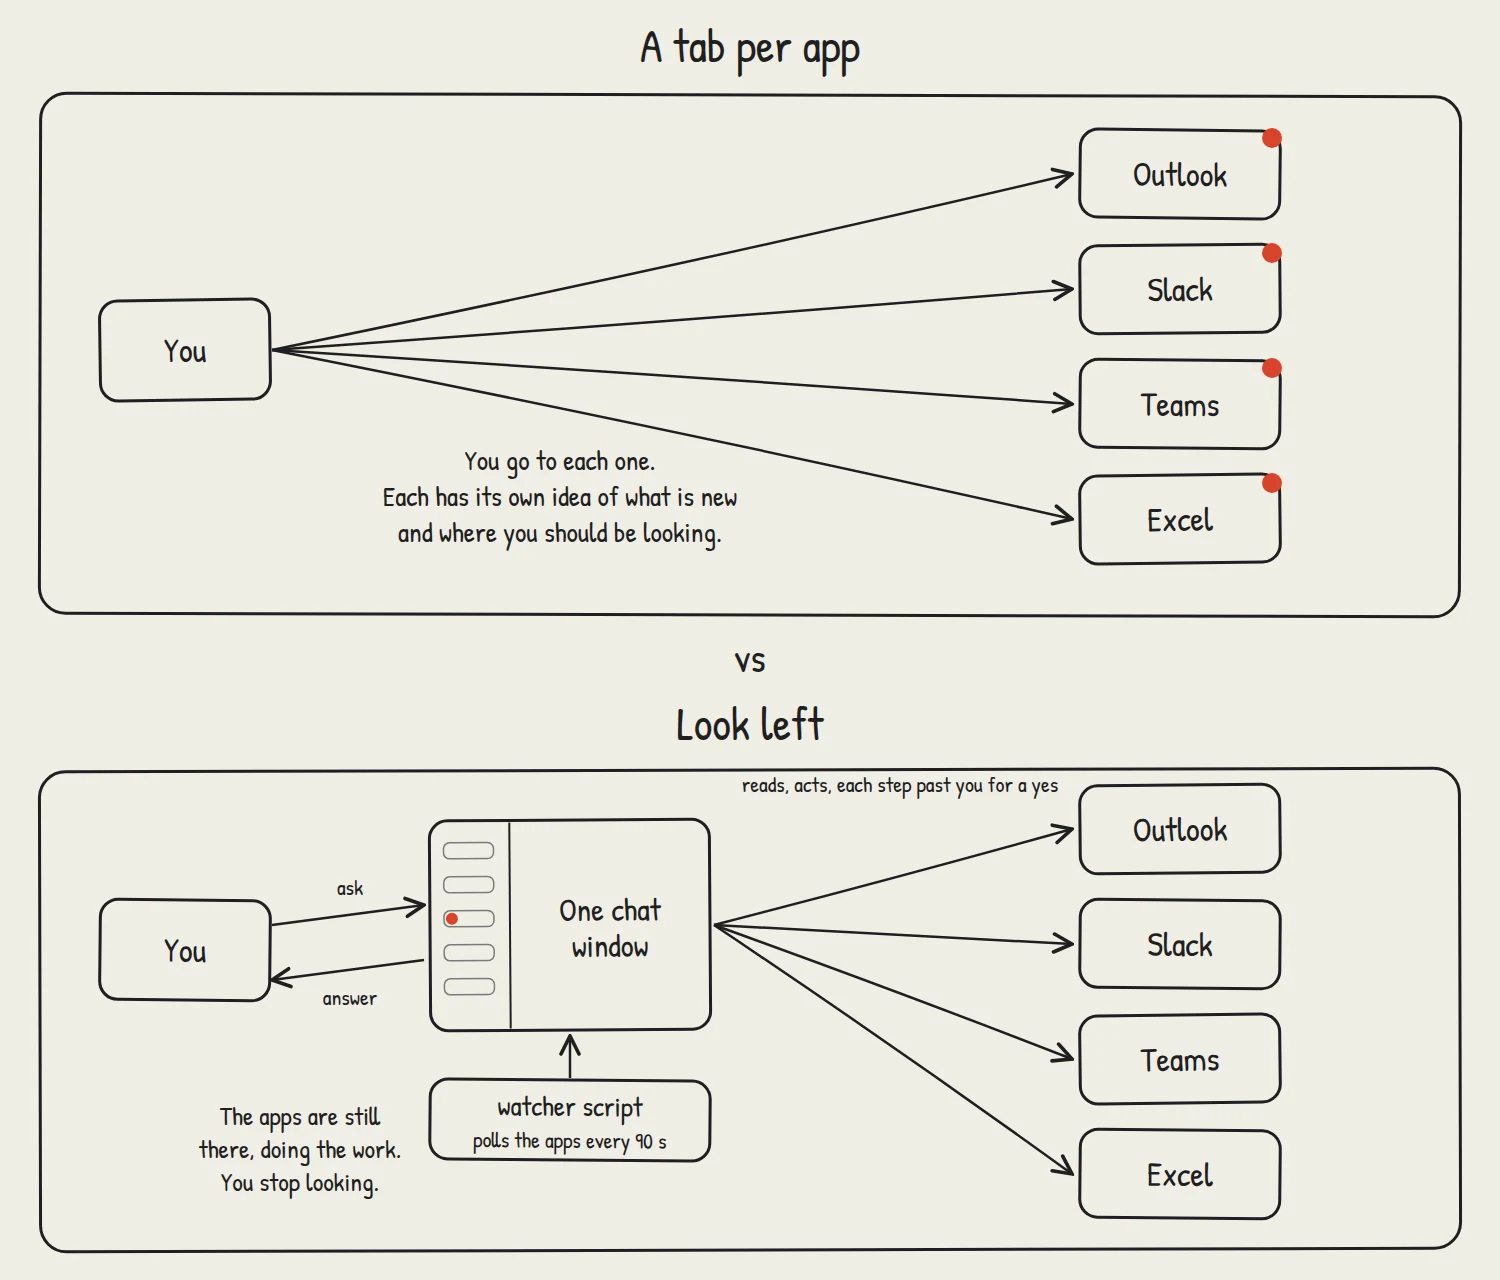
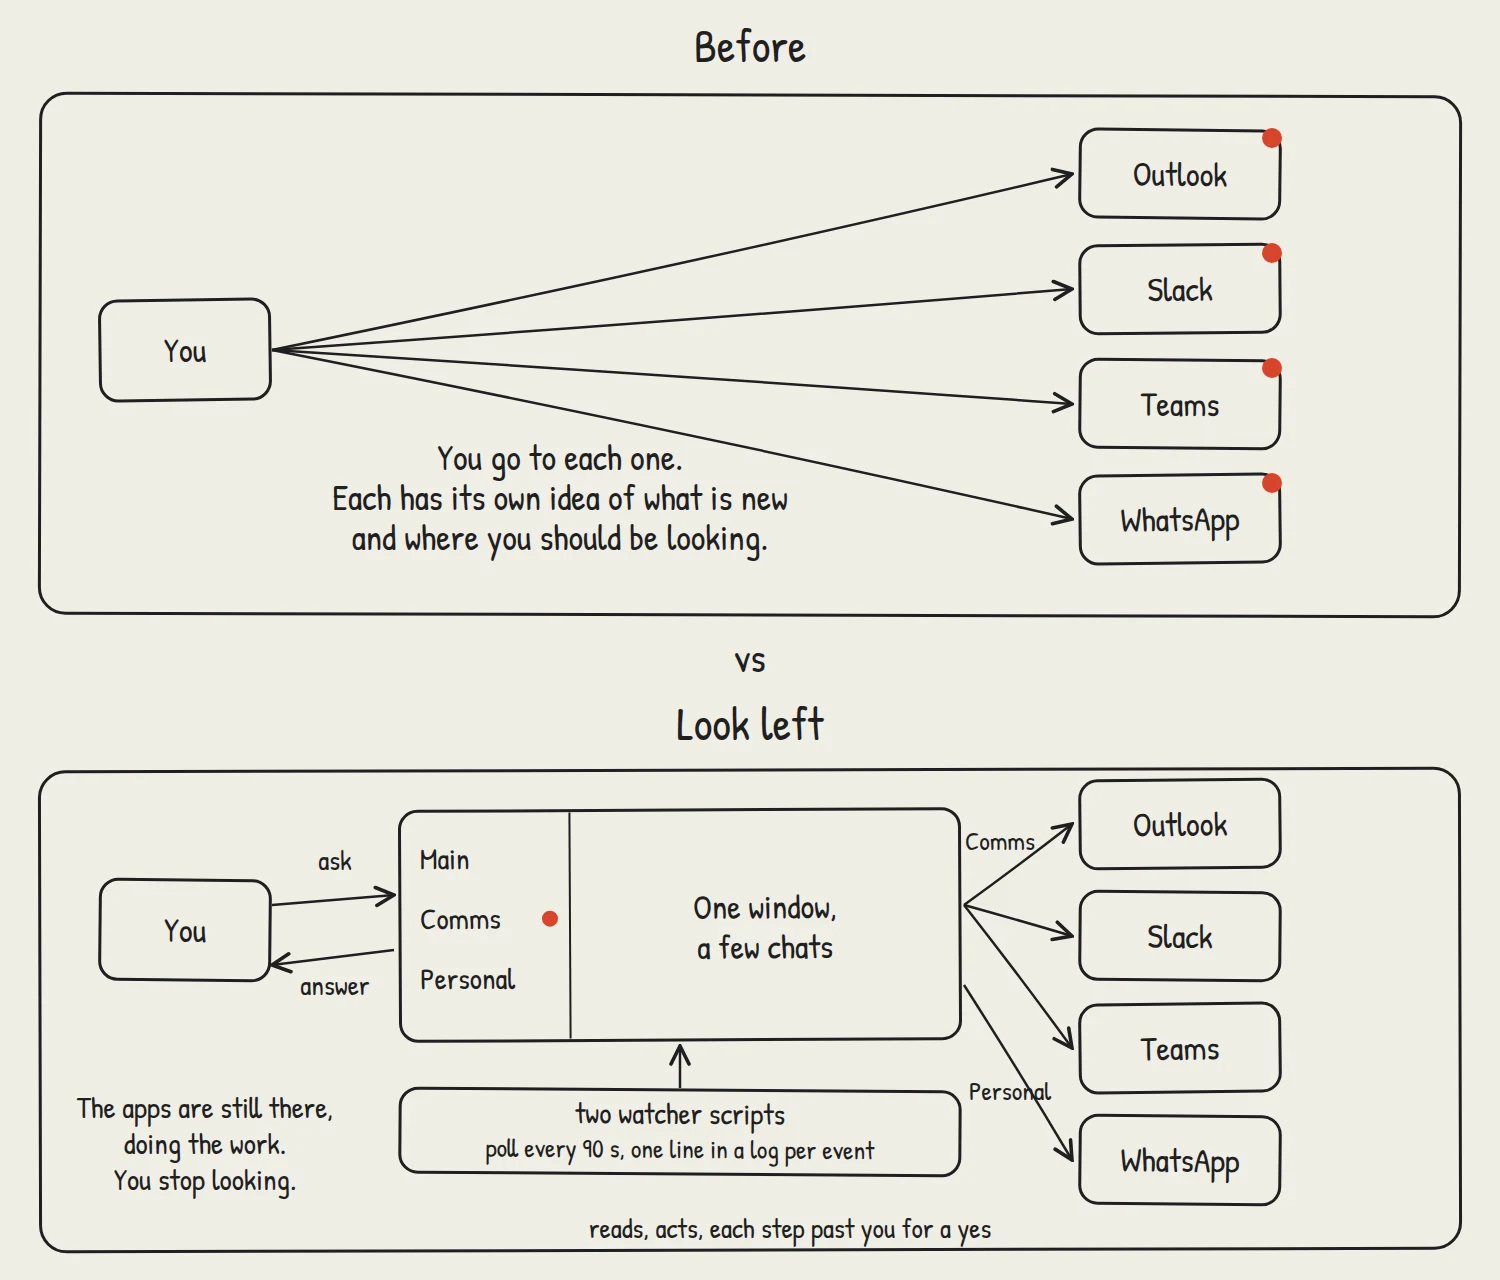
Look Left: redraw with the real sidebar and two watchers

diff --git a/_posts/2026-10-08-look-left.md b/_posts/2026-10-08-look-left.md
@@ -27,6 +27,6 @@ For three years the assumption has been that AI would arrive as a feature inside
 
 A friend sent me [a diagram](https://x.com/yashwanthsai29/status/1885193969728184671) in which the agent replaces the whole SaaS layer and talks straight to the database. From my desk it looks more like this.
 
-![Two panels. Top: you with an arrow to each of Outlook, Slack, Teams and Excel, each with its own unread dot. Bottom: you talk to one chat window, which reaches into the same four apps, fed by a watcher script that polls them every 90 seconds](/assets/images/2026-10-08-look-left-drawing.webp)
+![Two panels. Before: you with an arrow to each of Outlook, Slack, Teams and WhatsApp, each with its own unread dot. Look left: you talk to one window with a few chats in its sidebar, Main, Comms and Personal. Comms reaches into the work apps and Personal into WhatsApp, and two watcher scripts feed the chats, polling every 90 seconds](/assets/images/2026-10-08-look-left-drawing.webp)
 
 I'm deliberately careering towards this being my only interface. I resent unlocking my phone now. I don't want to navigate to anything with my thumbs. I want to start a conversation and have it go wherever it needs to go. A colleague put it well this week: at some point there will be a thing with no start button and no grid of apps, you just talk. Until someone builds that, a chat app with a few watchers is a reasonable approximation, and I keep looking left.
